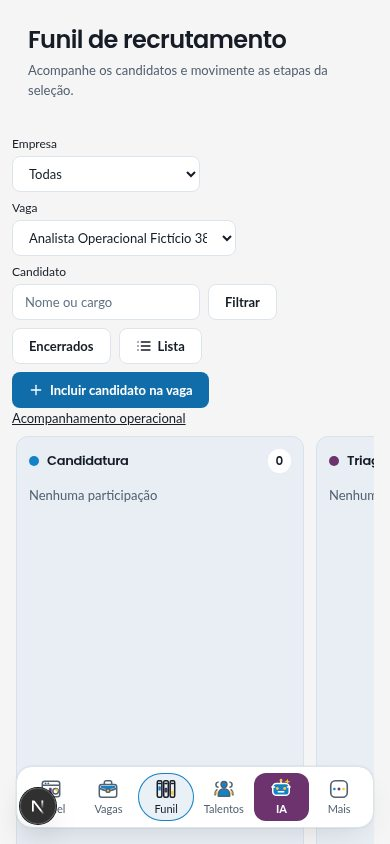
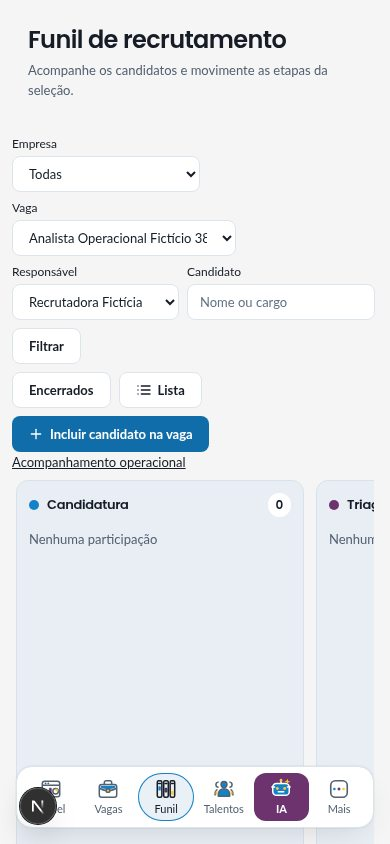
Aplica o filtro por responsável na lista e no Kanban

diff --git a/src/components/pipeline-toolbar.tsx b/src/components/pipeline-toolbar.tsx
@@ -9,26 +9,31 @@ import { buttonClass } from '@/components/ui/button';
 import { pipelineTalentHref, pipelineViewHref } from '@/lib/rga-pipeline-ux';
 type Posting = { id: string; title: string; client: string | null };
 type BoardPosting = Posting & { clientId: string | null };
-type Props = { board: boolean; archived: boolean; canAdd: boolean; clients: { id: string; name: string }[]; postingGroups: { label: string | null; postings: { id: string; title: string }[] }[]; boardPostings: BoardPosting[]; recruitingPostings: Posting[] };
-function BoardFilters({ clients, postings, client, posting, q, sort }: { clients: Props['clients']; postings: BoardPosting[]; client: string; posting: string; q: string; sort: string }) {
+type Props = { board: boolean; archived: boolean; canAdd: boolean; clients: { id: string; name: string }[]; owners: { id: string; name: string }[]; postingGroups: { label: string | null; postings: { id: string; title: string }[] }[]; boardPostings: BoardPosting[]; recruitingPostings: Posting[] };
+function BoardFilters({ clients, owners, postings, client, posting, owner, q, sort }: { clients: Props['clients']; owners: Props['owners']; postings: BoardPosting[]; client: string; posting: string; owner: string; q: string; sort: string }) {
   const [selectedClient, setClient] = useState(client);
   const [selectedPosting, setPosting] = useState(posting);
   return <form action="/pipeline" className="flex flex-wrap items-end gap-2">
     <input type="hidden" name="view" value="kanban" />{sort && <input type="hidden" name="sort" value={sort} />}
     {clients.length > 0 && <label className="grid gap-1 text-xs">Empresa <select name="client" className={inputClass} value={selectedClient} onChange={(e) => { setClient(e.target.value); setPosting(''); }}><option value="">Todas</option>{clients.map((item) => <option key={item.id} value={item.id}>{item.name}</option>)}</select></label>}
     <label className="grid max-w-56 gap-1 text-xs">Vaga <select name="posting" className={inputClass} value={selectedPosting} onChange={(e) => setPosting(e.target.value)}><option value="">Todas</option>{postings.filter((item) => !selectedClient || item.clientId === selectedClient).map((item) => <option key={item.id} value={item.id}>{item.title}{item.client ? ' — ' + item.client : ''}</option>)}</select></label>
+    {!!owners.length && <label className="grid max-w-56 gap-1 text-xs">Responsável
+      <select name="owner" className={inputClass} defaultValue={owner}>
+        <option value="">Todos</option>{owners.map(item => <option key={item.id} value={item.id}>{item.name}</option>)}
+      </select>
+    </label>}
     <label className="grid gap-1 text-xs">Candidato <input name="q" className={inputClass} defaultValue={q} placeholder="Nome ou cargo" /></label>
     <button className={buttonClass({ variant: 'secondary' })}>Filtrar</button>
   </form>;
 }
-export function PipelineToolbar({ board, archived, clients, postingGroups, boardPostings, recruitingPostings, canAdd }: Props) {
+export function PipelineToolbar({ board, archived, clients, owners, postingGroups, boardPostings, recruitingPostings, canAdd }: Props) {
   const nav = usePipelineNav();
   const pending = nav.pending || nav.key !== nav.committedKey;
   const input = nav.committed;
   const selected = recruitingPostings.find((item) => item.id === input.posting);
   const newCandidateHref = '/contacts/new?' + new URLSearchParams({ mode: 'application', ...(selected ? { posting: selected.id } : {}), ...(input.stage ? { stage: input.stage } : {}) }).toString();
   return <div className="mt-3 flex flex-wrap items-end gap-2 sm:mt-6">
-    {board ? <BoardFilters key={nav.committedKey} clients={clients} postings={boardPostings} client={input.client ?? ''} posting={input.posting ?? ''} q={input.q ?? ''} sort={input.sort ?? ''} /> : <PipelineFilters postingGroups={postingGroups} clients={clients} />}
+    {board ? <BoardFilters key={nav.committedKey} clients={clients} owners={owners} owner={input.owner ?? ''} postings={boardPostings} client={input.client ?? ''} posting={input.posting ?? ''} q={input.q ?? ''} sort={input.sort ?? ''} /> : <PipelineFilters postingGroups={postingGroups} clients={clients} owners={owners} />}
     <Link href={nav.hrefFor({ status: archived ? '' : 'archived', stage: '', reason: '' })} onClick={(e) => nav.go({ status: archived ? '' : 'archived', stage: '', reason: '' }, e)} className={buttonClass({ variant: 'secondary', className: 'md:hidden' })}>{archived ? 'Ativos' : 'Encerrados'}</Link>
     {!archived && (pending ? <button disabled className={buttonClass({ variant: 'secondary' })}>{board ? 'Lista' : 'Kanban'}</button> : <Link href={pipelineViewHref(input, !board)} className={buttonClass({ variant: 'secondary' })}>{board ? <><List /> Lista</> : <><Kanban /> Kanban</>}</Link>)}
     {canAdd && !archived && (pending ? <button disabled className={btnPrimary}><Plus /> Incluir candidato</button> :

diff --git a/src/app/(app)/pipeline/screen.tsx b/src/app/(app)/pipeline/screen.tsx
@@ -8,16 +8,16 @@ import { PipelineToolbar } from '@/components/pipeline-toolbar';
 import { pipelineBoardQuery } from '@/lib/rga-pipeline-ux';
 
 export function PipelineScreen({ data }: { data: Awaited<ReturnType<typeof loadPipelinePage>> }) {
-  const listInput = { posting: data.postingFilter, client: data.clientFilter, stage: data.stageFilter, q: data.q, status: data.archived ? 'archived' : '', sort: data.sort, reason: data.reason };
+  const listInput = { posting: data.postingFilter, client: data.clientFilter, owner: data.ownerFilter, stage: data.stageFilter, q: data.q, status: data.archived ? 'archived' : '', sort: data.sort, reason: data.reason };
   const query = pipelineBoardQuery(listInput);
   return <PipelineNavProvider listInput={listInput}>
     <div className="t-reveal flex h-dvh flex-col">
       <div className="flex flex-wrap items-start justify-between gap-2 px-3 sm:px-0 sm:pr-6">
         <PageHeader title="Funil de recrutamento" subtitle="Acompanhe os candidatos e movimente as etapas da seleção." />
-        <PipelineToolbar board={!!data.board} archived={data.archived} clients={data.clients} postingGroups={data.postingGroups} boardPostings={data.boardPostings} recruitingPostings={data.recruitingPostings} canAdd={data.canAddCandidate} />
+        <PipelineToolbar board={!!data.board} archived={data.archived} clients={data.clients} owners={data.owners} postingGroups={data.postingGroups} boardPostings={data.boardPostings} recruitingPostings={data.recruitingPostings} canAdd={data.canAddCandidate} />
       </div>
       <div className="px-3 pb-2 text-sm sm:px-6">
-        <Link className="underline" href={{ pathname: '/pipeline/operacao', query: { posting: data.postingFilter, client: data.clientFilter, stage: data.stageFilter } }}>Acompanhamento operacional</Link>
+        <Link className="underline" href={{ pathname: '/pipeline/operacao', query: { posting: data.postingFilter, client: data.clientFilter, owner: data.ownerFilter, stage: data.stageFilter } }}>Acompanhamento operacional</Link>
       </div>
       {data.archived && <form action="/pipeline" className="mx-6 mb-3 flex flex-wrap items-center gap-2">
         <input type="hidden" name="status" value="archived" />
@@ -26,7 +26,7 @@ export function PipelineScreen({ data }: { data: Awaited<ReturnType<typeof loadP
         <label>Motivo <select name="reason" defaultValue={data.reason}><option value="">Todos os motivos</option>{data.archiveReasons.map((reason) => <option key={reason.id} value={reason.id}>{reason.name}</option>)}</select></label>
         <button className="underline">Filtrar</button>
       </form>}
-      {data.board ? <RecruitingBoard stages={data.board} query={query} /> : <PipelineList stages={data.stages} counts={data.counts} page={data.page} after={data.after} postingGroups={data.postingGroups} clients={data.clients} archiveReasons={data.archiveReasons} fallbackGroupLabel={data.fallbackGroupLabel} />}
+      {data.board ? <RecruitingBoard stages={data.board} query={query} /> : <PipelineList stages={data.stages} counts={data.counts} page={data.page} after={data.after} postingGroups={data.postingGroups} clients={data.clients} owners={data.owners} archiveReasons={data.archiveReasons} fallbackGroupLabel={data.fallbackGroupLabel} />}
     </div>
   </PipelineNavProvider>;
 }

diff --git a/src/components/pipeline-list.tsx b/src/components/pipeline-list.tsx
@@ -103,6 +103,7 @@ export function PipelineList({
   after,
   postingGroups,
   clients = [],
+  owners = [],
   archiveReasons,
   fallbackGroupLabel,
 }: {
@@ -119,6 +120,7 @@ export function PipelineList({
   }[];
   /** Client names, for the active-filter chips. */
   clients?: { id: string; name: string }[];
+  owners?: { id: string; name: string }[];
   archiveReasons: { id: string; name: string }[];
   /** Eyebrow for postings without a client/department (org-kind aware). */
   fallbackGroupLabel: string;
@@ -444,6 +446,10 @@ export function PipelineList({
   if (nav.input.posting) {
     filters.push({ key: 'posting', label: "Vaga", value: postingTitle(nav.input.posting), clear: { posting: '', stage: '' } });
   }
+  if (nav.input.owner) {
+    const name = owners.find(owner => owner.id === nav.input.owner)?.name ?? 'Responsável indisponível';
+    filters.push({ key: 'owner', label: 'Responsável', value: name, clear: { owner: '' } });
+  }
   if (nav.input.stage) {
     const name = stages.find((st) => st.id === nav.input.stage)?.name ?? "Etapa";
     filters.push({ key: 'stage', label: "Etapa", value: name, clear: { stage: '' } });
@@ -461,7 +467,7 @@ export function PipelineList({
     setQDraft({ from: committedQ, value: '' });
     setQHint(false);
     setSentQ('');
-    nav.go({ q: '', client: '', posting: '', stage: '', status: '' });
+    nav.go({ q: '', client: '', posting: '', owner: '', stage: '', status: '' });
   }
 
   return (
@@ -560,6 +566,7 @@ export function PipelineList({
           >
             {nav.input.posting ? <input type="hidden" name="posting" value={nav.input.posting} /> : null}
             {nav.input.client ? <input type="hidden" name="client" value={nav.input.client} /> : null}
+            {nav.input.owner ? <input type="hidden" name="owner" value={nav.input.owner} /> : null}
             {nav.input.stage ? <input type="hidden" name="stage" value={nav.input.stage} /> : null}
             {nav.input.status ? <input type="hidden" name="status" value={nav.input.status} /> : null}
             {nav.input.sort ? <input type="hidden" name="sort" value={nav.input.sort} /> : null}

diff --git a/tests/lists.test.ts b/tests/lists.test.ts
@@ -7,6 +7,7 @@ import { decodeCursor, encodeCursor } from '@/lib/list-cursor';
 import {
   PAGE_SIZE,
   pipelineCounts,
+  pipelineFilterFor,
   pipelineHasAny,
   pipelinePage,
   type PipelineFilter,
@@ -126,6 +127,30 @@ async function walkContacts(orgId: string, input: { q?: string; tag?: string; po
 }
 
 const dup = (ids: string[]) => ids.length - new Set(ids).size;
+
+describe.skipIf(!hasDb)('pipeline owner scope', () => {
+  it('uses the participation owner before the posting owner and keeps counts consistent', async () => {
+    const { org, admin, stages } = await createOrg();
+    const other = await createOrg();
+    const colleague = await db.user.create({ data: {
+      orgId: org.id, name: 'Recrutadora Fictícia', email: 'responsavel@example.invalid',
+    } });
+    const posting = await db.posting.create({ data: {
+      orgId: org.id, title: 'Vaga fictícia', slug: 'filtro-responsavel', ownerId: admin.id,
+    } });
+    const inherited = await candidate(org.id, stages, [[0, 0]], { postingId: posting.id });
+    const assigned = await candidate(org.id, stages, [[1, 1]], { postingId: posting.id, ownerId: colleague.id });
+    const direct = await candidate(org.id, stages, [[1, 2]], { ownerId: admin.id });
+    await candidate(other.org.id, other.stages, [[0, 0]], { ownerId: other.admin.id });
+    const mine = pipelineFilterFor(org.id, { owner: admin.id }, null);
+    const coworker = pipelineFilterFor(org.id, { owner: colleague.id, posting: posting.id }, null);
+    const foreign = pipelineFilterFor(org.id, { owner: other.admin.id }, null);
+    expect(await walk(mine, 'time', 1)).toEqual([inherited.opportunity.id, direct.opportunity.id]);
+    expect(await walk(coworker, 'name', 1)).toEqual([assigned.opportunity.id]);
+    expect(await walk(foreign, 'time', 1)).toEqual([]);
+    expect(await pipelineCounts(mine)).toMatchObject({ total: 2, counts: { [stages[0].id]: 1, [stages[1].id]: 1 } });
+  });
+});
 
 describe.skipIf(!hasDb)('pipeline keyset pages', () => {
   let orgId = '';

diff --git a/src/app/(app)/page-loaders.ts b/src/app/(app)/page-loaders.ts
@@ -160,7 +160,7 @@ export async function loadPipelinePage(input: PipelineInput) {
   const f = pipelineFilterFor(ctx.orgId, input, input.client ? await metaP : null);
   const after = decodeCursor(input.after, sort);
 
-  const [meta, counts, page, hasAny, recruitingPostings] = await Promise.all([
+  const [meta, counts, page, hasAny, recruitingPostings, owners] = await Promise.all([
     metaP,
     cachedPipelineCounts(f),
     pipelinePage(f, sort, { after }),
@@ -171,6 +171,7 @@ export async function loadPipelinePage(input: PipelineInput) {
       orderBy: { title: 'asc' },
       select: { id: true, title: true, clientCompany: { select: { name: true } } },
     }) : Promise.resolve([]),
+    db.user.findMany({ where: { orgId: ctx.orgId }, orderBy: [{ name: 'asc' }, { id: 'asc' }], select: { id: true, name: true } }),
   ]);
 
   const board = input.view === 'kanban' && !archived ? await Promise.all(meta.stages.map(async (stage) => {
@@ -185,9 +186,11 @@ export async function loadPipelinePage(input: PipelineInput) {
     stageFilter: board ? '' : input.stage ?? '',
     postingFilter: input.posting ?? '',
     clientFilter: input.client ?? '',
+    ownerFilter: f.ownerId ?? '',
+    owners,
     /** The cursor this page was rendered after ('' for the first page). */
     after: after ? (input.after ?? '') : '',
-    fallbackGroupLabel: meta.kind === 'AGENCY' ? organization.client.other : 'Roles',
+    fallbackGroupLabel: meta.kind === 'AGENCY' ? organization.client.other : 'Vagas',
     stages: meta.stages,
     counts,
     page,

diff --git a/src/server/lists/pipeline.ts b/src/server/lists/pipeline.ts
@@ -22,6 +22,7 @@ export type PipelineFilter = {
   view: PipelineView;
   stageId?: string;
   reasonId?: string;
+  ownerId?: string;
   /**
    * The postings in scope: ?posting, or every posting of ?client. null means
    * any posting (including none); an empty list means nothing can match.
@@ -34,6 +35,7 @@ export type PipelineFilter = {
 export type PipelineParams = {
   posting?: string;
   client?: string;
+  owner?: string;
   stage?: string;
   q?: string;
   status?: string;
@@ -62,6 +64,7 @@ export function pipelineFilterFor(
     stageId: input.stage || undefined,
     reasonId: input.status === 'archived' ? input.reason || undefined : undefined,
     postingIds,
+    ownerId: input.owner?.replaceAll('\u0000', '') || undefined,
     q: input.q?.trim() || undefined,
   };
 }
@@ -119,6 +122,15 @@ export function pipelineFilterSql(
   }
   if (stage && f.stageId) parts.push(Prisma.sql`o."stageId" = ${f.stageId}`);
   if (f.postingIds) parts.push(Prisma.sql`o."postingId" = ANY(${f.postingIds}::text[])`);
+  if (f.ownerId) {
+    parts.push(Prisma.sql`EXISTS (
+      SELECT 1 FROM "User" u WHERE u.id = ${f.ownerId} AND u."orgId" = o."orgId" AND (
+        o."ownerId" = u.id OR (o."ownerId" IS NULL AND EXISTS (
+          SELECT 1 FROM "Posting" p WHERE p.id = o."postingId" AND p."orgId" = o."orgId" AND p."ownerId" = u.id
+        ))
+      )
+    )`);
+  }
   if (f.reasonId) parts.push(Prisma.sql`o."archiveReasonId" = ${f.reasonId}`);
   const q = searchText(f);
   if (q) {

diff --git a/src/server/postings.ts b/src/server/postings.ts
@@ -7,7 +7,7 @@ import { actorOf, emitEvent } from '@/server/events';
 import { closePendingApprovals, requestApproval } from '@/server/approvals';
 import { isAdmin, requireRecruitingAccess, type SessionContext } from '@/lib/session';
 import { lockClientWrites } from '@/server/client-companies';
-import { invalidateListMeta } from '@/server/lists/cache';
+import { invalidateListMeta, invalidatePipelineCounts } from '@/server/lists/cache';
 
 function slugify(input: string): string {
   return input
@@ -231,7 +231,7 @@ export async function setPostingOwner(ctx: SessionContext, postingId: string, ow
   ]);
   if (!posting) throw new Error('Posting not found');
   if (ownerId && !owner) throw new Error('That teammate isn’t in this workspace.');
-  return db.$transaction(async (tx) => {
+  await db.$transaction(async (tx) => {
     await tx.posting.update({ where: { id: posting.id }, data: { ownerId } });
     await emitEvent(tx, {
       orgId: ctx.orgId,
@@ -242,4 +242,5 @@ export async function setPostingOwner(ctx: SessionContext, postingId: string, ow
       payload: { title: posting.title, owner: owner?.name ?? null },
     });
   });
+  invalidatePipelineCounts(ctx.orgId);
 }

diff --git a/src/app/api/lists/pipeline/route.ts b/src/app/api/lists/pipeline/route.ts
@@ -1,4 +1,5 @@
 import type { NextRequest } from 'next/server';
+import { PIPELINE_KEYS } from '@/lib/list-client/list-key';
 import { decodeCursor } from '@/lib/list-cursor';
 import { canManageRecruiting, getSessionContext } from '@/lib/session';
 import { cachedPipelineCounts, getListMeta } from '@/server/lists/cache';
@@ -7,8 +8,6 @@ import { limitParam, listJson, listParams } from '@/app/api/lists/params';
 
 export const runtime = 'nodejs';
 export const dynamic = 'force-dynamic';
-
-const KEYS = ['posting', 'client', 'stage', 'q', 'status', 'sort', 'reason'] as const;
 
 /**
  * One page of the pipeline: the same filters as /pipeline's URL, plus
@@ -20,7 +19,7 @@ export async function GET(request: NextRequest) {
   if (!ctx) return listJson({ error: 'unauthorized' }, 401);
   if (!canManageRecruiting(ctx)) return listJson({ error: 'forbidden' }, 403);
   const params = request.nextUrl.searchParams;
-  const input = listParams(params, KEYS);
+  const input = listParams(params, PIPELINE_KEYS);
   const sort = input.sort === 'name' ? 'name' : 'time';
   const rawAfter = params.get('after');
   const after = rawAfter ? decodeCursor(rawAfter, sort) : null;

diff --git a/src/lib/__tests__/rga-pipeline-ux.test.ts b/src/lib/__tests__/rga-pipeline-ux.test.ts
@@ -2,8 +2,8 @@ import { describe, expect, it } from 'vitest';
 import { pipelineBoardQuery, pipelineTalentHref, pipelineViewHref } from '@/lib/rga-pipeline-ux';
 describe('RGA pipeline navigation', () => {
   it('keeps scope and sort, removes single-stage filter in Kanban', () => {
-    const input = { client: 'c1', posting: 'p1', stage: 's1', q: '  auxiliar & fiscal  ', sort: 'name' };
-    expect(Object.fromEntries(new URL(pipelineViewHref(input, true), 'https://example.invalid').searchParams)).toEqual({ posting: 'p1', client: 'c1', q: 'auxiliar & fiscal', sort: 'name', view: 'kanban' });
+    const input = { client: 'c1', posting: 'p1', owner: 'u1', stage: 's1', q: '  auxiliar & fiscal  ', sort: 'name' };
+    expect(Object.fromEntries(new URL(pipelineViewHref(input, true), 'https://example.invalid').searchParams)).toEqual({ posting: 'p1', client: 'c1', owner: 'u1', q: 'auxiliar & fiscal', sort: 'name', view: 'kanban' });
     expect(new URLSearchParams(pipelineBoardQuery(input)).has('stage')).toBe(false);
   });
   it('keeps archived scope in list', () => {

diff --git a/src/components/pipeline-filters.tsx b/src/components/pipeline-filters.tsx
@@ -8,10 +8,12 @@ import { usePipelineNav } from '@/components/pipeline-nav';
 export function PipelineFilters({
   postingGroups,
   clients,
+  owners,
 }: {
   /** The rail's groups: the Posting dropdown lists the same postings, by title. */
   postingGroups: { label: string | null; postings: { id: string; title: string }[] }[];
   clients: { id: string; name: string }[];
+  owners: { id: string; name: string }[];
 }) {
   const nav = usePipelineNav();
   const postings = useMemo(
@@ -38,6 +40,9 @@ export function PipelineFilters({
         options={postings.map((p) => ({ value: p.id, label: p.title }))}
         onSelect={(value) => nav.go({ posting: value })}
       />
+      {!!owners.length && <Dropdown label="Responsável" value={nav.input.owner ?? ''} allLabel="Todos os responsáveis"
+        options={owners.map(owner => ({ value: owner.id, label: owner.name }))}
+        onSelect={(value) => nav.go({ owner: value })} />}
     </>
   );
 }

diff --git a/src/app/(app)/pipeline/operacao/page.tsx b/src/app/(app)/pipeline/operacao/page.tsx
@@ -95,7 +95,7 @@ export default async function OperationalPipelinePage({ searchParams }: { search
     query: { ...Object.fromEntries(Object.entries(input).filter(([key]) => ['posting', 'client', 'owner', 'stage', 'from', 'to', 'pending', 'page'].includes(key))), ...change },
   });
   return <main className="mx-auto grid max-w-6xl gap-4 p-4 sm:p-6">
-    <Link className="underline" href={{ pathname: '/pipeline', query: { posting: input.posting, client: input.client } }}>Voltar ao funil</Link>
+    <Link className="underline" href={{ pathname: '/pipeline', query: { posting: input.posting, client: input.client, owner: input.owner } }}>Voltar ao funil</Link>
     <h1 className="text-xl font-semibold">Acompanhamento operacional</h1>
     <form className={surface + ' grid gap-3 p-4 sm:grid-cols-3'}>
       {filters.map(([key, label, options]) => <label className="grid min-w-0 gap-1 text-sm" key={key}>{label}

diff --git a/src/server/lists/cache.ts b/src/server/lists/cache.ts
@@ -59,9 +59,9 @@ export const getListMeta = cache(
  */
 export function cachedPipelineCounts(f: PipelineFilter): Promise<StageCounts> {
   const q = f.q?.trim().toLowerCase() ?? '';
-  const scope = { view: f.view, postingIds: f.postingIds ?? null, reasonId: f.reasonId ?? null, q };
+  const scope = { view: f.view, postingIds: f.postingIds ?? null, reasonId: f.reasonId ?? null, ownerId: f.ownerId ?? null, q };
   return unstable_cache(
-    () => pipelineCounts({ orgId: f.orgId, view: f.view, postingIds: f.postingIds ?? null, reasonId: f.reasonId, q: q || undefined }),
+    () => pipelineCounts({ orgId: f.orgId, view: f.view, postingIds: f.postingIds ?? null, reasonId: f.reasonId, ownerId: f.ownerId, q: q || undefined }),
     ['pipeline-counts', f.orgId, JSON.stringify(scope)],
     { revalidate: 20, tags: [pipelineCountsTag(f.orgId)] },
   )();
